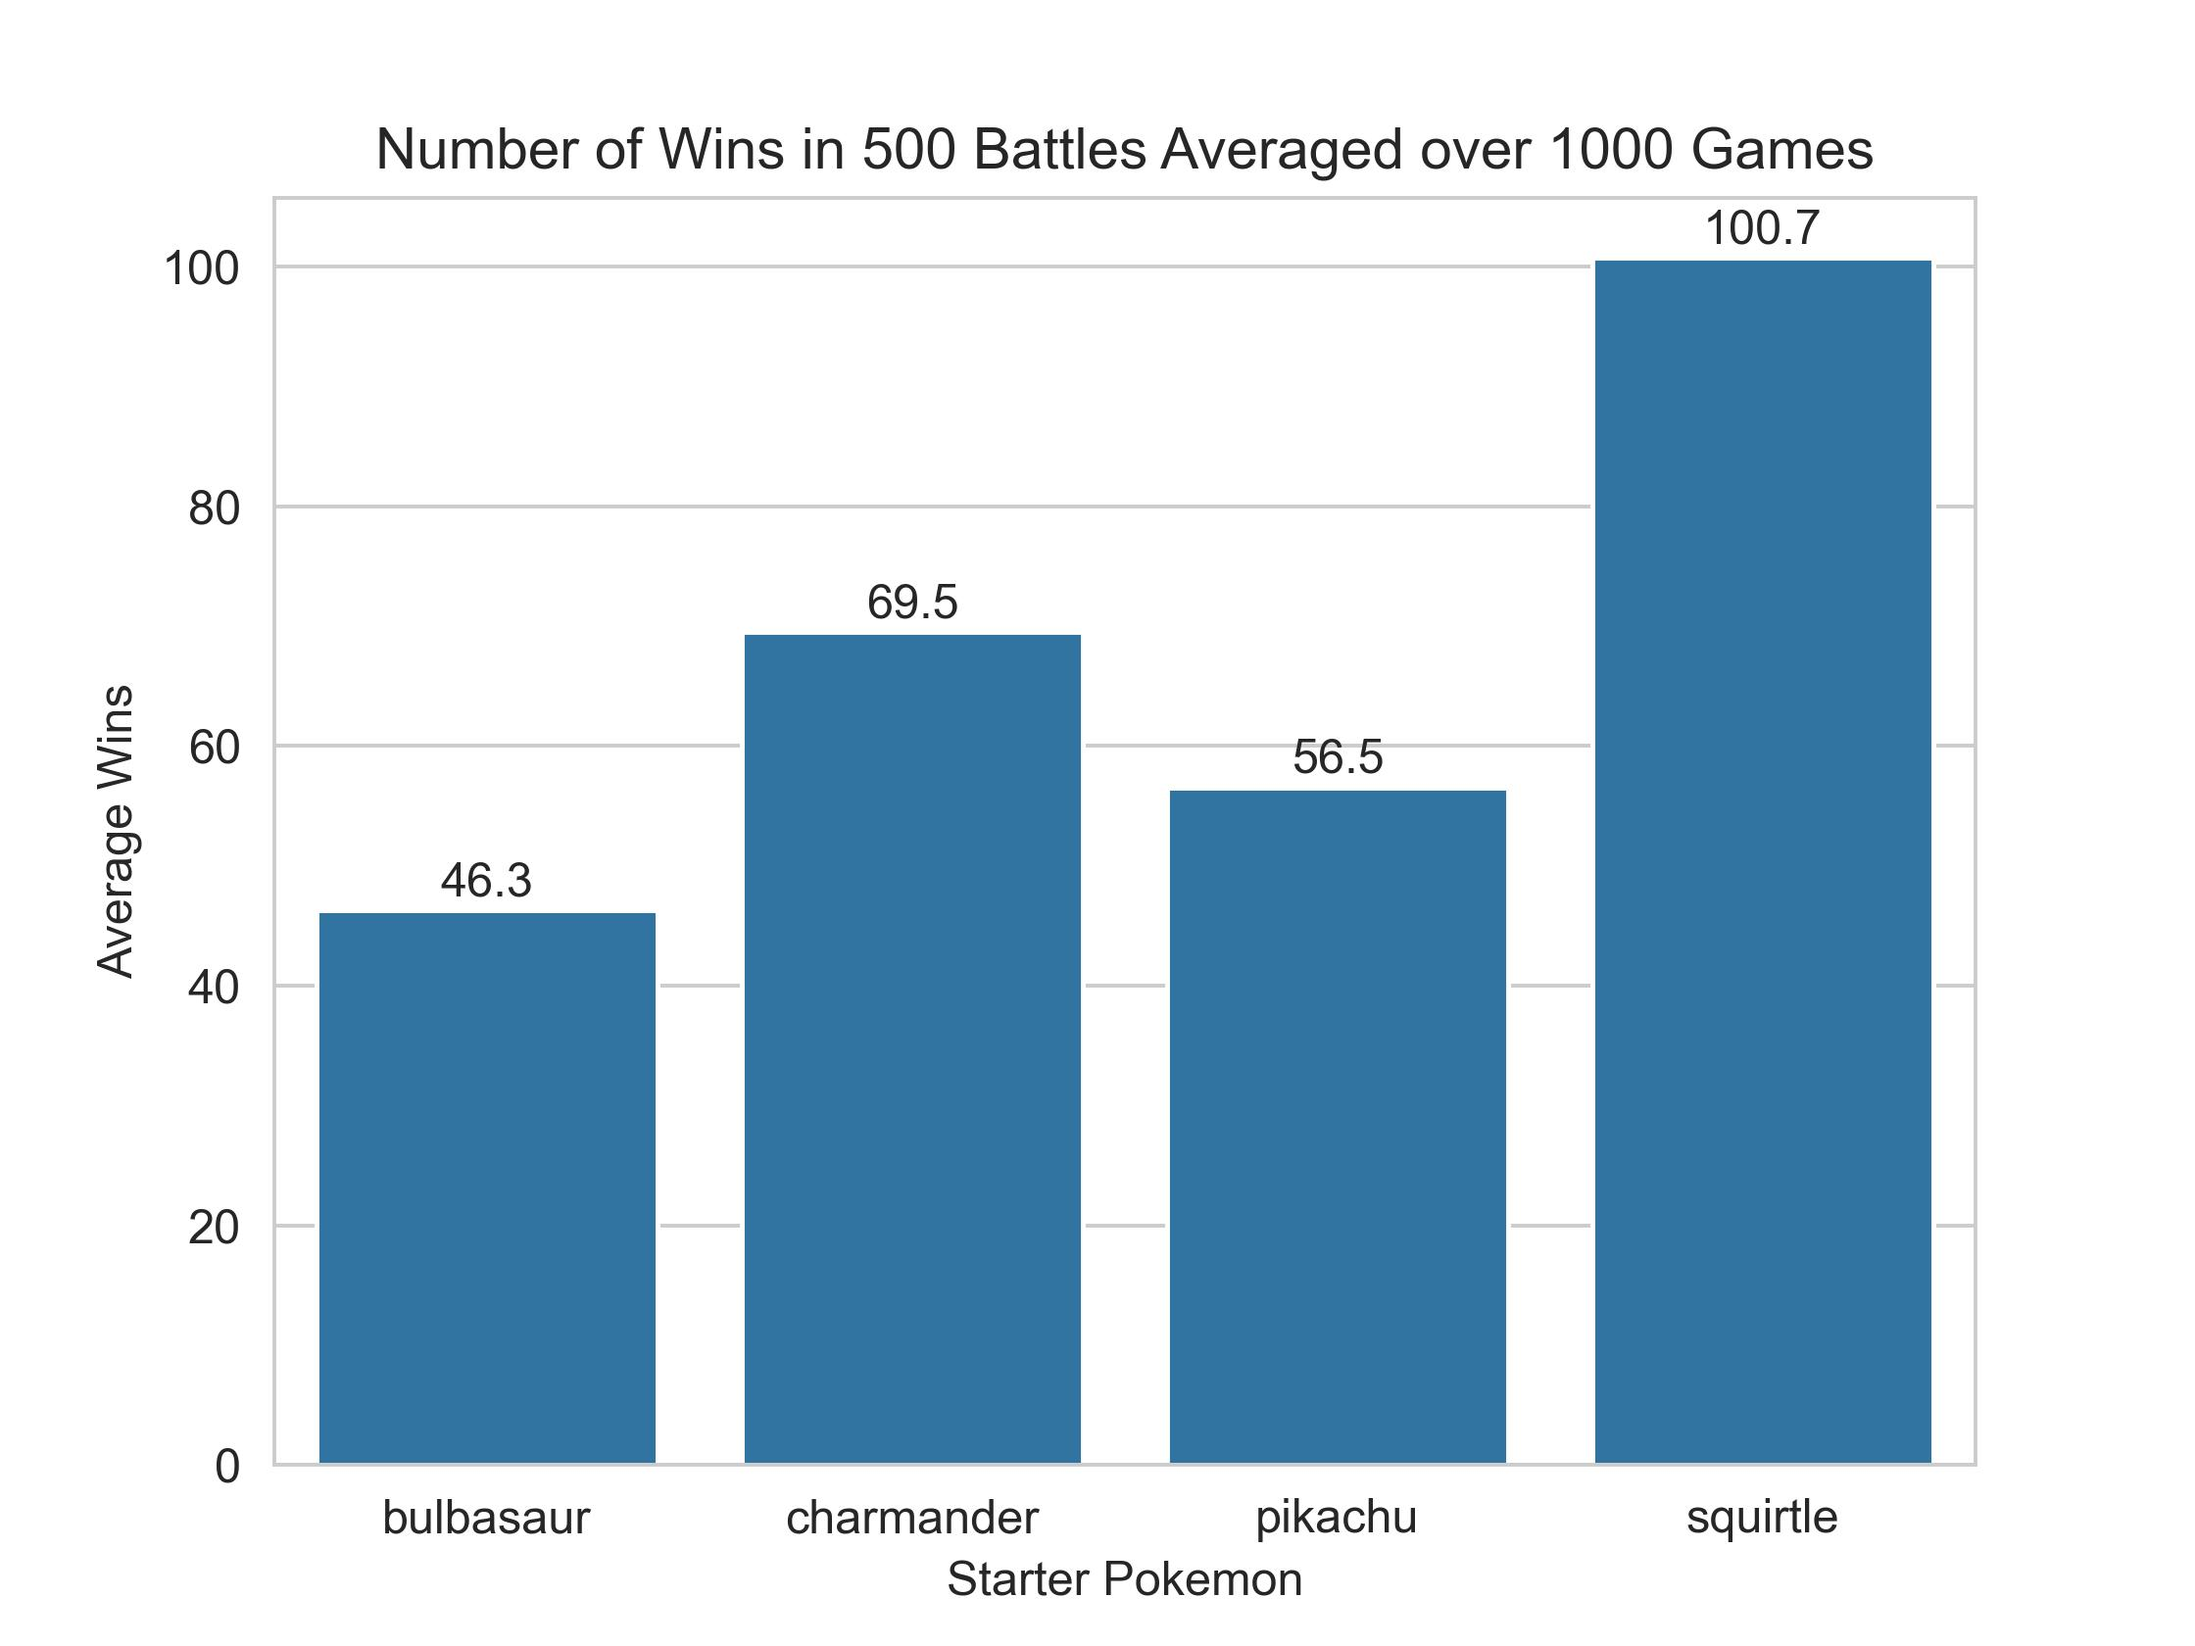
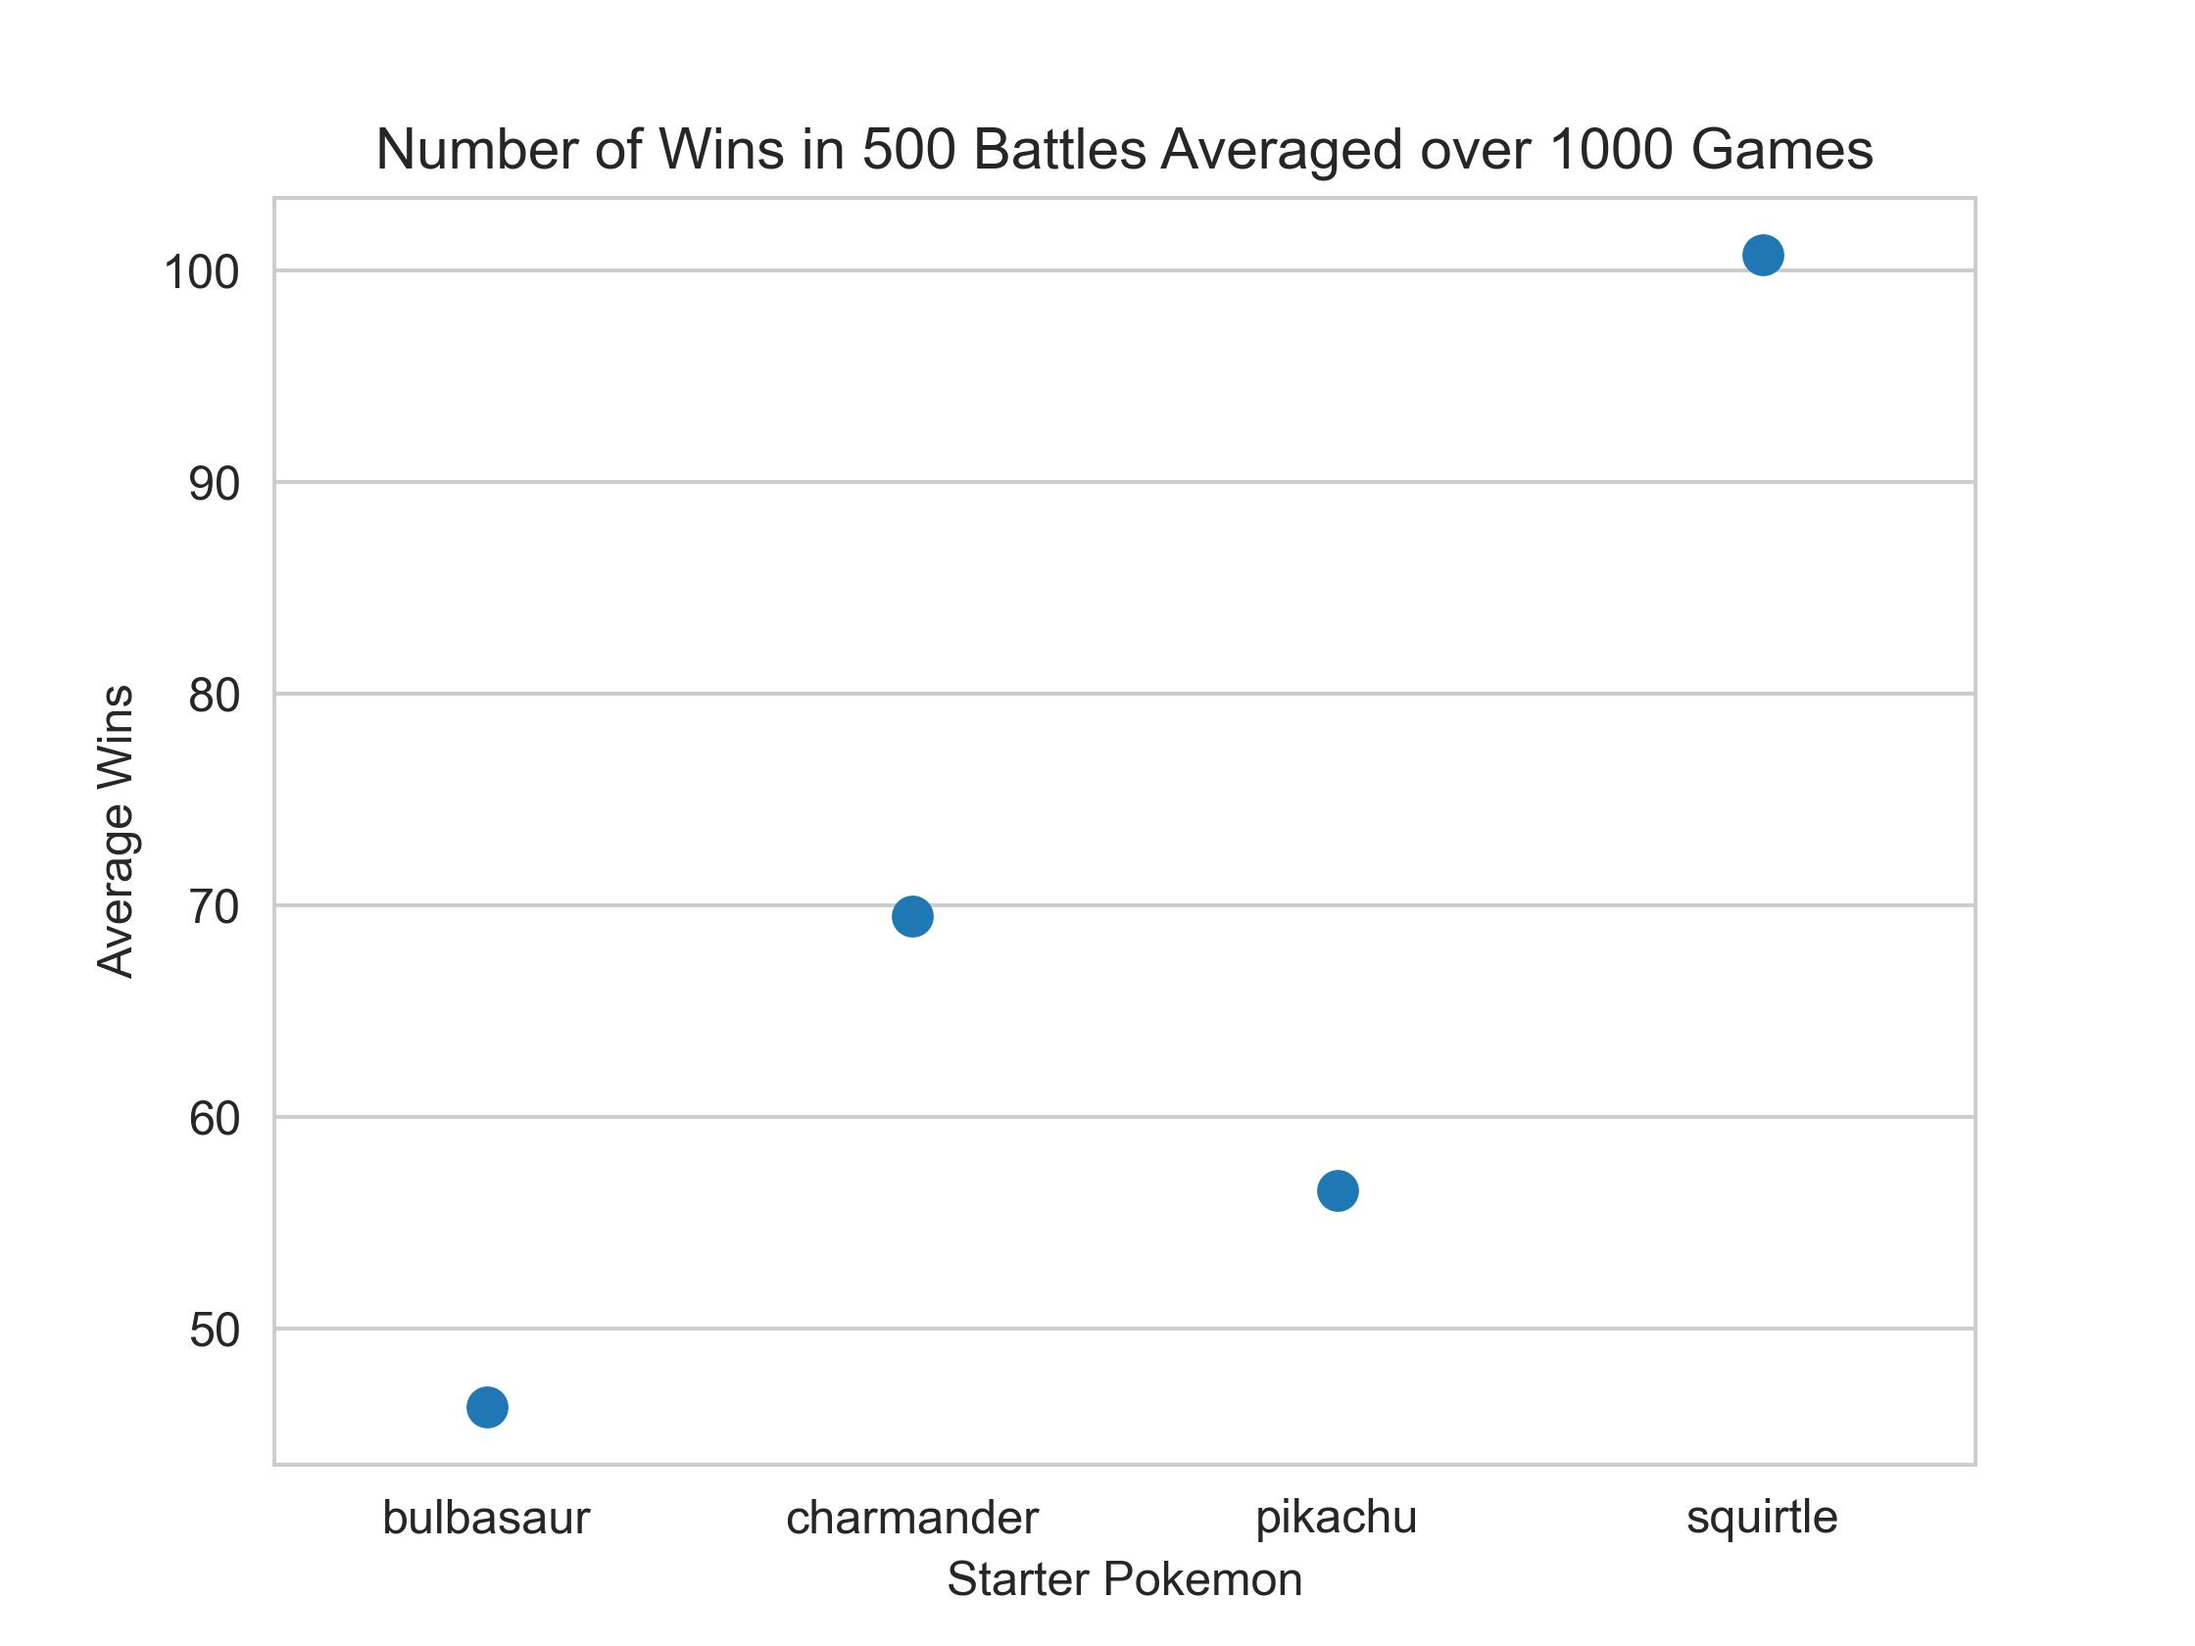
changes simple plot

diff --git a/assignment_3/analyze_data.py b/assignment_3/analyze_data.py
@@ -29,14 +29,7 @@ def simple_plot(data, save_path):
     
     # plot the values
     sns.set_style("whitegrid")
-    ax = sns.barplot(data=plot_df, x="Starter Pokemon", y="Average Wins")
-
-
-    # add the values on top of each bar
-    for container in ax.containers:
-        ax.bar_label(container, fmt='%.1f', label_type='edge', padding=1)
-
-    # plot settings
+    sns.pointplot(data=plot_df, x="Starter Pokemon", y="Average Wins", linestyles="none")
     plt.title(f"Number of Wins in {data["Battle"].max()} Battles Averaged over {data["Game"].max()} Games")
     plt.ylabel("Average Wins")
     plt.xlabel("Starter Pokemon")
